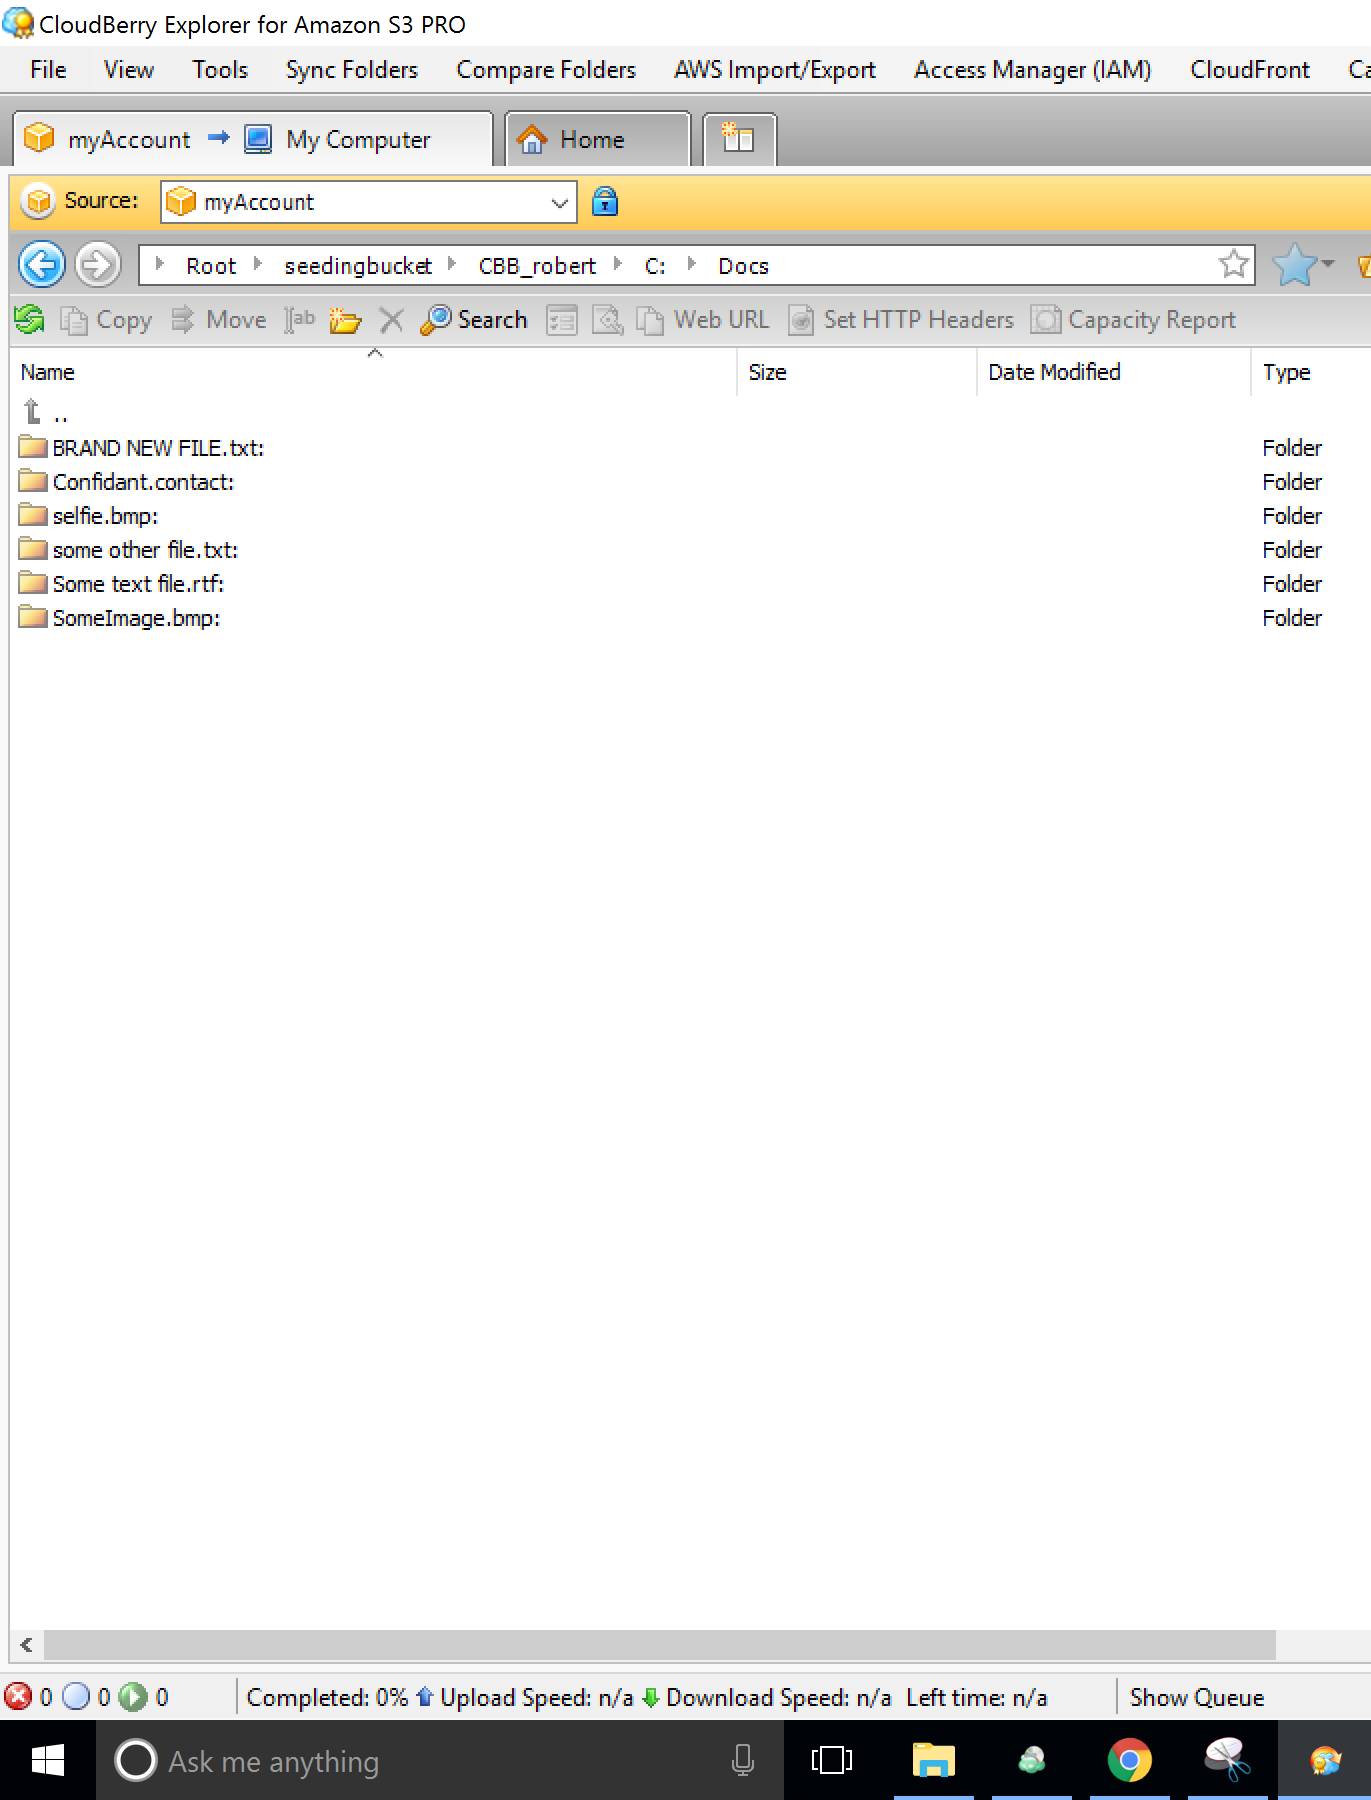
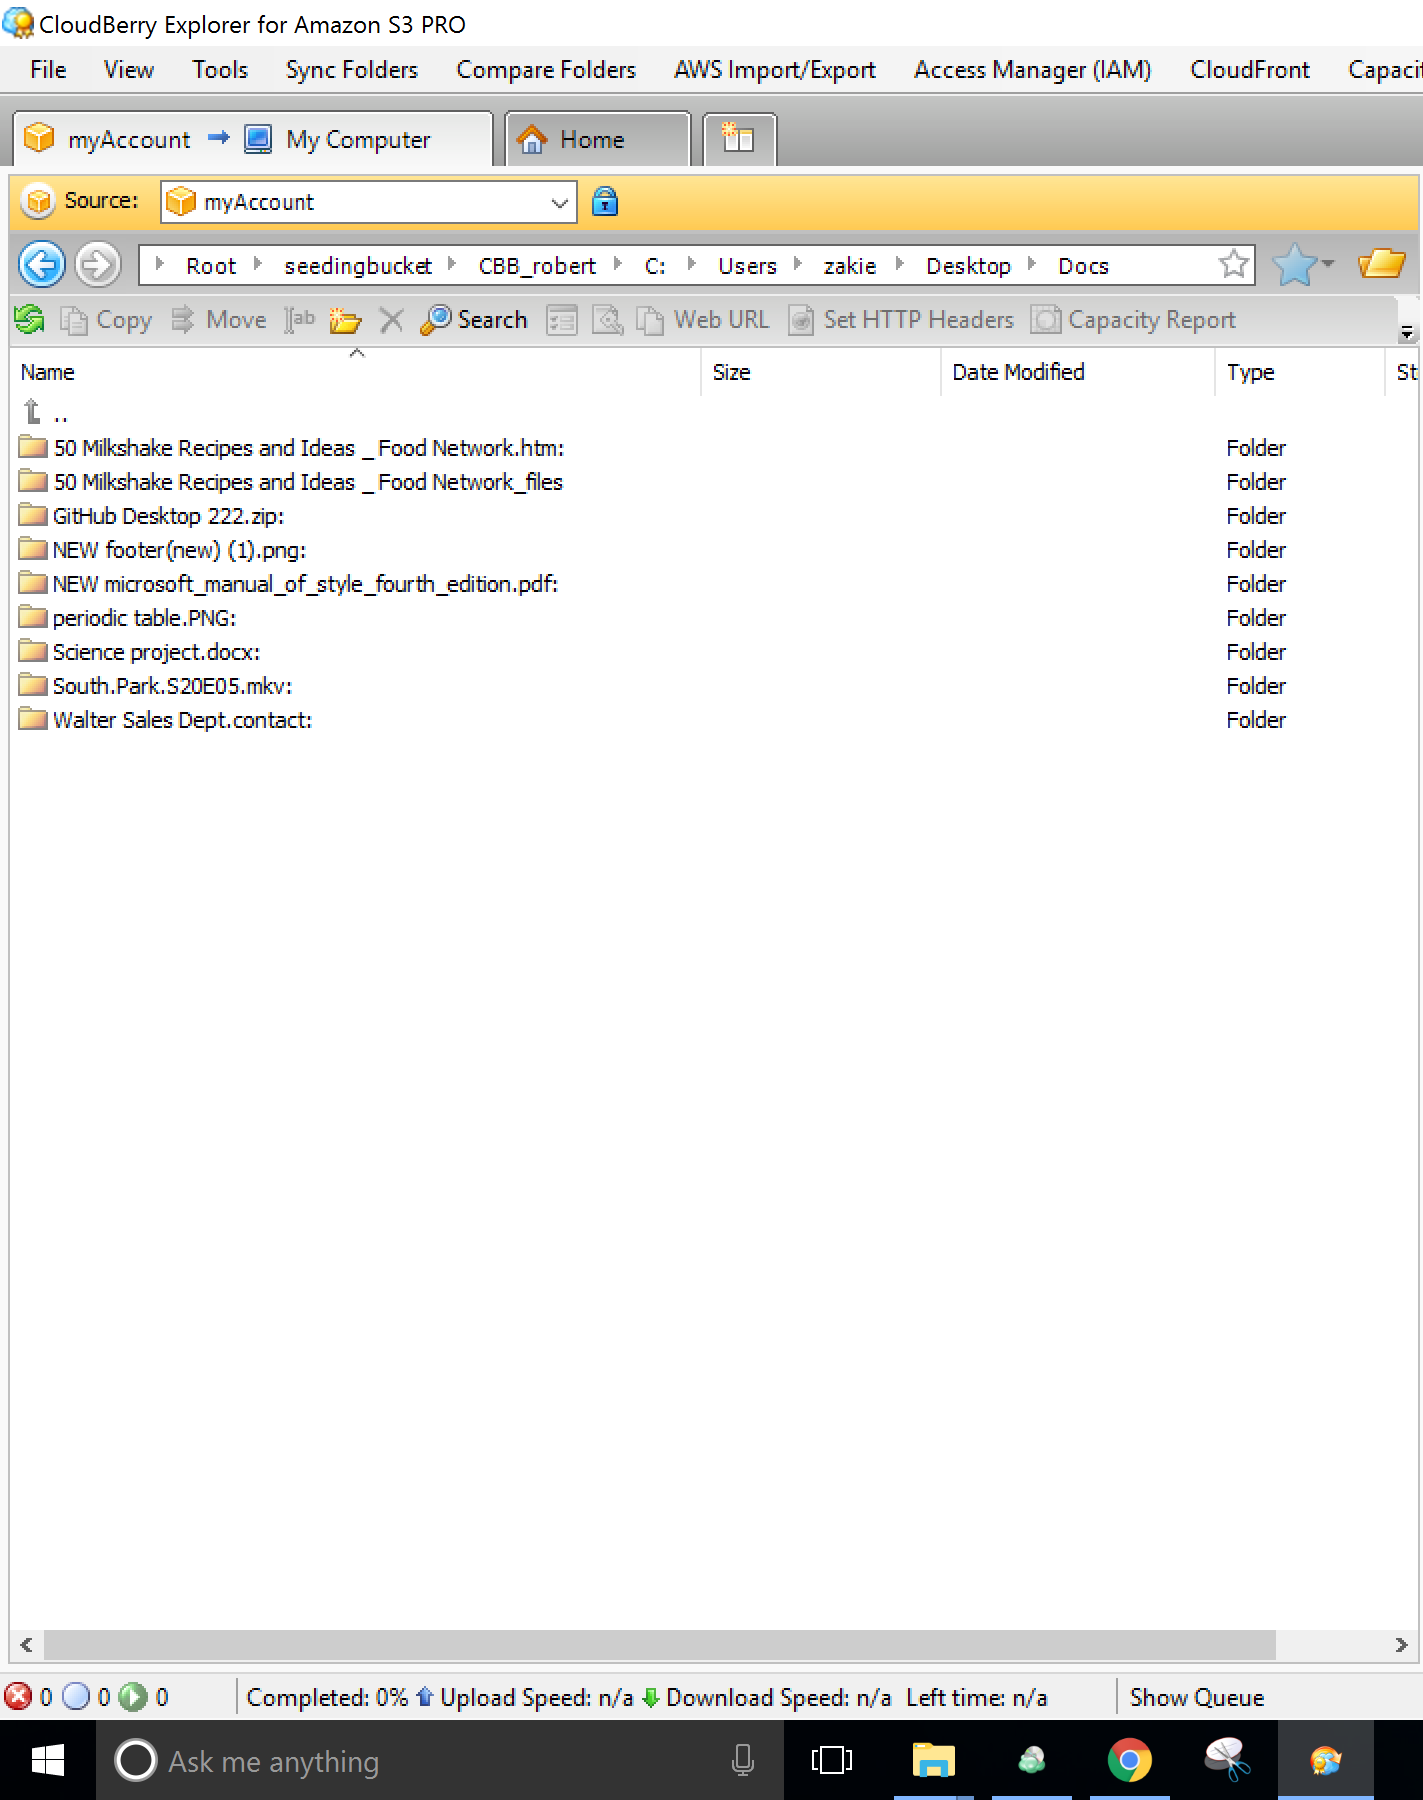
kb1051
adding final touches

diff --git a/_posts/2016-10-20-kb1051.md b/_posts/2016-10-20-kb1051.md
@@ -18,6 +18,74 @@ category: support
 ---
 ## Problem
 
-This is new KB article.
+<p>While CloudBerry Backup is great for day-to-day use, the initial  backup may pose a problem for users with slow or pricey internet connection. Suppose you installed Cloudberry Backup on your computer and want to start backing up one of your hard drives. If the volume of the data is relatively small, the task is pretty much straightforward: set up a backup plan and run it. However, if you’re working with rather large volumes of data, poor or expensive internet connection may urge you to find a different solution to this problem. Namely, use a different computer that has a decent connection. </p>
 
-Just a comment added by Robert.
+<p>Naturally, CloudBerry Backup stores files in a certain way: certain file structure, certain file naming conventions, etc. So you cannot just “dump” your files into your cloud storage on one computer, and then expect CloudBerry Backup on another computer to just “pick up” those files during the next backup plan execution.</p>
+
+## Resolution
+
+<p>There is a workaround for this issue, however. You have two options:</p>
+
+<ol>
+	<li>Use “Custom Mode” when creating a backup plan. This is the <b>easier option</b>. That way you don’t need to get technical and tinker with buckets, repository syncs, changing prefixes, setting identical file structures on both computers, etc. Note that this option is fairly unsophisticated and does not allow you to use encryption. In summary, <b>little effort and few options</b>. </li> <br>
+	<li>Use “Advanced Mode” when creating a backup plan. This option gives you <b>greater flexibility</b> when it comes to backup options, while requiring extra effort in setting things up properly on both machines. In summary, <b>extra effort and extra options</b>.</li>
+</ol>
+
+<p>This article is only <b>covering the second option</b>. To learn more about the first option – read this article: (link here).</p>
+
+<p>Without further ado, let’s get to the tutorial.</p>
+
+<p>Let's talk about the "Advanced Mode" in detail. The main idea here is to ensure that both computers have <b>identical settings</b>. Namely, backup prefix, file structure, and cloud storage credentials.</p>
+<p> First, ensure that file structure is the same on both machines. For instance, if the folder "Docs" is located at C:/Docs on the "slow PC", ensure that it is also located at C:/Docs on the "fast PC", so that both computers will upload into the same cloud folder.</p>
+<p>Second, ensure that you have the same cloud credentials (security keys and the bucket) in the <b>Account Settings</b>.</p>
+
+<p>Third, ensure that you have the same backup prefix on both machines by going to <b>Edit Accounts</b>.</p>
+<img src="../images/kb1051/macbook7.png" width="400" height="500"> <br> <br>
+
+<p> Select your account and click <b>Edit</b>. </p>
+<img src="../images/kb1051/macbook8.png" width="400" height="400"> <br> <br>
+
+<p> Then click "Advanced settings". </p>
+<img src="../images/kb1051/macbook9.png" width="300" height="400"> <br> <br>
+
+<p>Enter any prefix you want, just keep in mind that you have to enter the same prefix on both machines to have smooth and successful backups. </p>
+<img src="../images/kb1051/macbook10.png" width="300" height="400"> <br> <br>
+
+<p>Now you need to copy your large files onto an external hard drive. In our example a folder named “Docs” was copied from the “slow PC” onto a USB flash drive. This folder contains all the large files that would take forever to upload on the “slow PC“. </p>
+
+<img src="../images/kb1051/macbook1.png" width="400" height="275"> <br> <br>
+
+<p>Now open CloudBerry Backup on the “fast PC” and enter your Amazon credentials (security keys). Then create a backup plan as follows:</p>
+<ol>
+	<li>Launch the Backup Wizard and click <b>Next</b>.</li> <br>
+	<li>Select your storage and click <b>Next</b>.</li> <br>
+	<li>Pick a name for your backup plan and click <b>Next</b>.</li> <br>
+	<li>Select Advanced Mode”. Click <b>Next</b>.</li> <br>
+  <img src="../images/kb1051/pcscreen1.png" width="300" height="330"> <br> <br>
+	<li>Specify the folder you wish to upload. Click <b>Next</b>.</li> <br>
+  <img src="../images/kb1051/pcscreen2.png" width="300" height="330"> <br> <br>
+	<li>Enable compression or encryption if needed. Click <b>Next</b>.</li> <br>
+
+  <img src="../images/kb1051/pcscreen3.png" width="300" height="330"> <br> <br>
+	<li>Continue setting up the plan. Upon finishing, select the "Run now" checkbox and then wait intil the backup plan execution completes. Your data should now be successfully uploaded into the specified folder in the cloud storage.</li><br>
+
+  <img src="../images/kb1051/pcscreen4.png" width="300" height="330"> <br> <br>
+  <img src="../images/kb1051/macbook2.png" width="300" height="400"> <br>
+</ol>
+
+<p>Notice that we only have 5 files in the “Doсs” folder. Now let’s get back to that very folder on the “Slow PC”, add a file to it and do the same process again. As you see on the screenshot below, 2 files were added (their names start with "NEW").</p>
+
+<img src="../images/kb1051/macbook3.png" width="400" height="280"> <br>
+
+<p>Launch CloudBerry Backup on the “slow PC” and create the exact same backup plan as you did on the “fast PC”. If you have enabled encryption – make sure that you use the same encryption type and the same passcode. Before you run the plan, ensure that all repositories are synced to avoid reuploading large files. To do so, go to <b>Cloudberry Options</b>. </p>
+
+<img src="../images/kb1051/macbook4.png" width="300" height="400"> <br> 
+
+<p>Under <b>Repository</b>, click <b>Synchronize Repository</b>, and then click <b>Synchronize Now</b>. </p>
+<img src="../images/kb1051/macbook5.png" width="300" height="400"> <br> <br>
+
+<p>Then close the pop-up window and run the backup plan. All added files should appear in your cloud storage.</p>
+<img src="../images/kb1051/macbook11.png" width="300" height="400"> <br> <br>
+
+<p>Likewise, whenever you modify any files within that folder, just run the backup plan and you’re good to go.</p>
+<p>If you still have any questions regarding seeding data -- be it general inquiries, licensing, sign-up, or any other issues -- feel free to drop us a line at <a href="mailto:support@cloudberrylab.com">support@cloudberrylab.com</a>, and we will get back to you shortly.</p>

diff --git a/_posts/2016-10-20-kb1052.md b/_posts/2016-10-20-kb1052.md
@@ -27,7 +27,7 @@ There is a workaround for this issue, however. You have two options:
 1. Use “Custom Mode” when creating a backup plan. This is the **easier option**. That way you don’t need to get technical and tinker with buckets, repository syncs, changing prefixes, setting identical file structures on both computers, etc. Note that this option is fairly unsophisticated and does not allow you to use encryption. In summary, **little effort and few options**.
 2. Use “Advanced Mode” when creating a backup plan. This option gives you **greater flexibility** when it comes to backup options, while requiring extra effort in setting things up properly on both machines. In summary, **extra effort and extra options**.
 
-This article is only covering **the first option**. To learn more about the second option – read [this](http://kb.cloudberrylab.com/kb1053/) article.
+This article is only covering **the first option**. To learn more about the second option – read [this](http://kb.cloudberrylab.com/kb1051/) article.
 
 Without further ado, let’s get to the tutorial.
 
@@ -49,7 +49,7 @@ Now open CloudBerry Backup on the “fast PC” and enter your Amazon credential
 6. Now continue setting up the plan. Upon finishing, run the plan once, and your data should be successfully uploaded into the specified folder in the cloud storage.<br><br>
 <img src="../images/kb1052/1052capture2.png" width="300" height="400">
 
-Notice that we only have 7 files in the “Docs” folder. Now let’s get back to that very folder on the “Slow PC”, add a file to it and do the same process again. As you see on the screenshot below, a file named “BRAND NEW FILE” was added.
+Notice that we only have 7 files in the “Docs” folder. Now let’s get back to that very folder on the “Slow PC”, add a file to it and do the same process again. As you see on the screenshot below, 2 files were added (their names start with "NEW").
 
 <img src="../images/kb1052/1052capture3.png" width="500" height="300">
 
